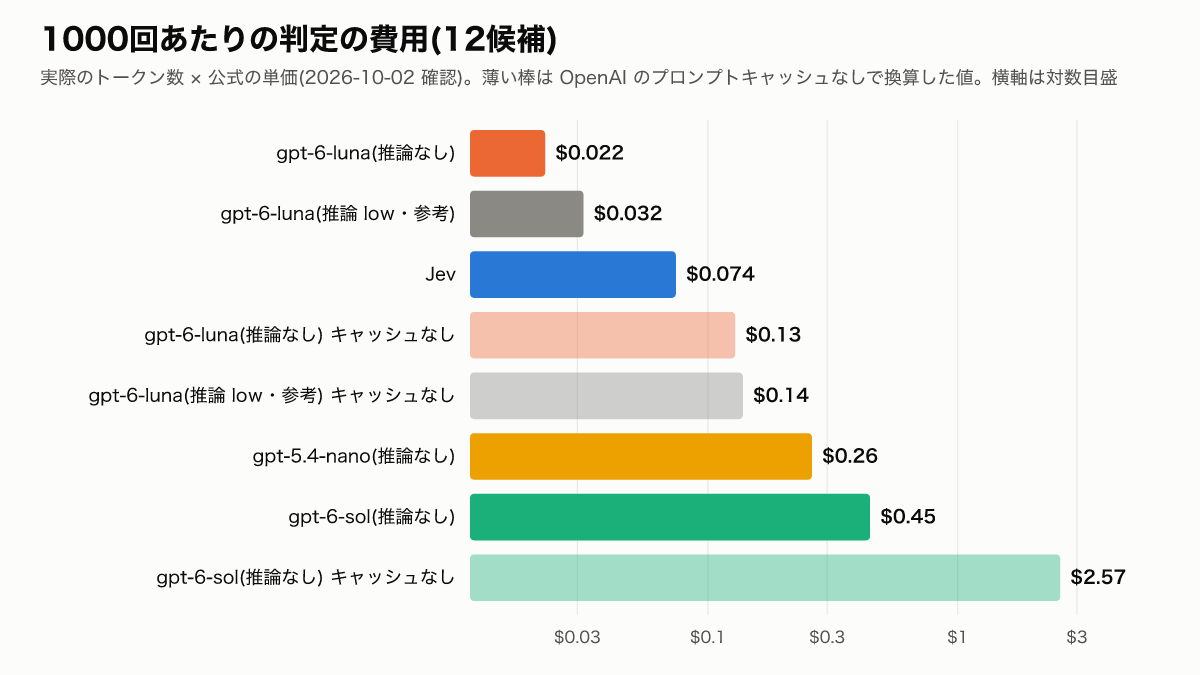
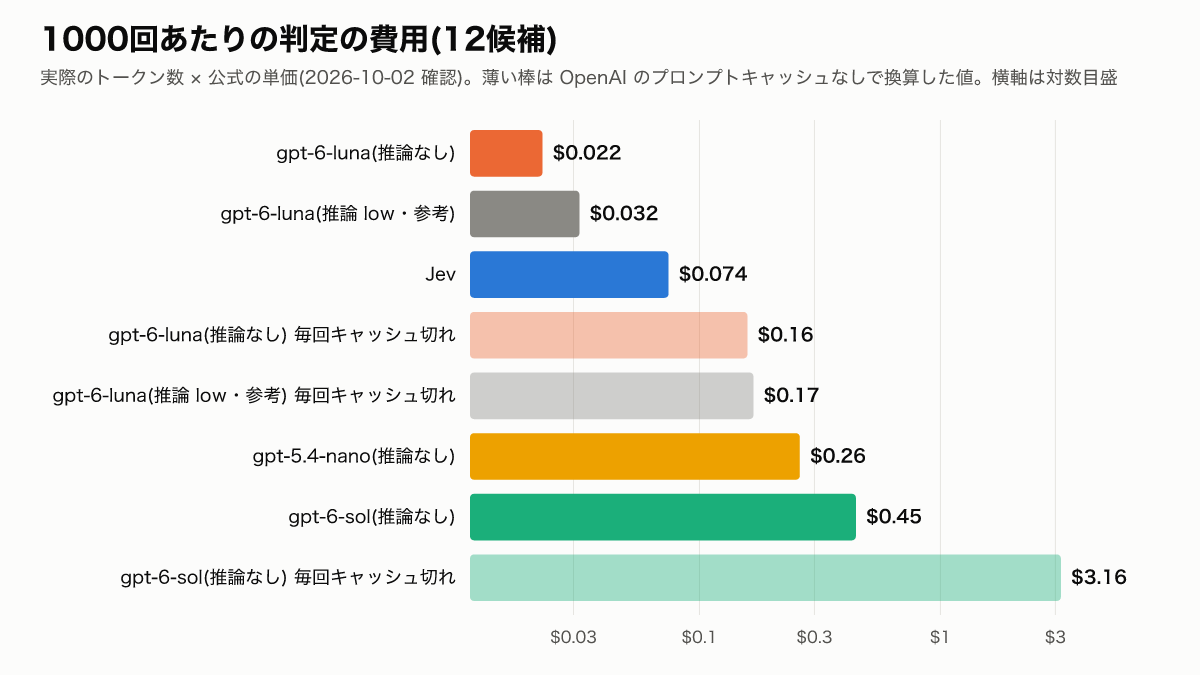
v2: price cache writes at 1.25x and add expiry-aware cost analysis

diff --git a/src/v2/report.ts b/src/v2/report.ts
@@ -91,7 +91,11 @@ const ms: M[] = run.configs.map((cfg) => {
       m.lat.push(r.latencyMs);
       m.cost.push(r.costUsd);
       const price = CLASSIFIERS.find((x) => x.key === cfg.classifier)?.price;
-      if (price) m.costNoCache.push(r.usage.input * price.input + r.usage.output * price.output);
+      // "every call misses the cache": the cacheable prefix is written (1.25x on GPT-5.6+), the rest billed as input
+      if (price) {
+        const prefix = r.usage.cachedInput || (r.usage as { cacheWrite?: number }).cacheWrite || 0;
+        m.costNoCache.push((r.usage.input - prefix) * price.input + prefix * (price.cacheWrite ?? price.input) + r.usage.output * price.output);
+      }
       if (r.usage.input) m.cachedShare.push(r.usage.cachedInput / r.usage.input);
       m.reasoningTok.push(r.usage.reasoning);
       if (r.confidence !== null && r.ok) m.conf.push({ c: r.confidence, ok, okL });
@@ -114,7 +118,7 @@ const G = { fine: '12候補', coarse: '6分類' } as const;
 
 // ---- main table ----
 const table = [
-  '| 構成 | 粒度 | 正解率 [95%CI] | 「これでも可」込み [95%CI] | 判定時間 p50 / p95 | 費用 / 1000回(実績) | 同(キャッシュなし換算) | 選択後のプロンプト(平均) | エラー |',
+  '| 構成 | 粒度 | 正解率 [95%CI] | 「これでも可」込み [95%CI] | 判定時間 p50 / p95 | 費用 / 1000回(実績) | 同(毎回キャッシュ切れ) | 選択後のプロンプト(平均) | エラー |',
   '|---|---|---:|---:|---:|---:|---:|---:|---:|',
   ...ms.map(
     (m) =>
@@ -199,7 +203,7 @@ writeFileSync(
           const actual = { classifier: m.classifier, label: m.label, usd: mean(m.cost) * 1000 };
           const noCache = mean(m.costNoCache) * 1000;
           return m.classifier !== 'jev' && noCache > actual.usd * 1.05
-            ? [actual, { classifier: m.classifier, label: `${m.label} キャッシュなし`, usd: noCache, faded: true }]
+            ? [actual, { classifier: m.classifier, label: `${m.label} 毎回キャッシュ切れ`, usd: noCache, faded: true }]
             : [actual];
         })
     )
@@ -272,7 +276,30 @@ ${agreeLines}
 - 候補の説明文・直前の会話・発話・指示文は同じものを渡した
 - Jev は \`state\`(会話)と choice の質問として、LLM は system に指示と候補一覧、user に会話の JSON として受け取る
 - LLM は Chat Completions、構造化出力(候補 id の enum)、\`reasoning_effort: none\`(参考の1構成だけ low)。gpt-6-sol の後継の gpt-6.1-sol は \`none\` に対応していないため使っていない
-- LLM の system(指示と候補一覧)は全件で同じなので、OpenAI 側の自動プロンプトキャッシュが効いた。入力のうちキャッシュから読まれた割合の平均: ${ms.filter((m) => m.classifier !== 'jev').map((m) => `${m.label} ${G[m.g]} ${pct(mean(m.cachedShare))}`).join('、')}。費用の表は実績(キャッシュ込み)とキャッシュなし換算の両方を載せた。Jev にはキャッシュの割引がない
+- LLM の system(指示と候補一覧)は全件で同じなので、OpenAI 側の自動プロンプトキャッシュが効いた。入力のうちキャッシュから読まれた割合の平均: ${ms.filter((m) => m.classifier !== 'jev').map((m) => `${m.label} ${G[m.g]} ${pct(mean(m.cachedShare))}`).join('、')}。Jev にはキャッシュの割引がない
+
+## キャッシュの有効期限を考えた費用
+
+OpenAI のプロンプトキャッシュは、GPT-5.6 以降では最後に使われてから30分有効で、書き込みは入力単価の1.25倍、読み出しは0.1倍(https://developers.openai.com/api/docs/guides/prompt-caching 、2026-10-02 確認)。
+費用はヒット率で決まるので、両端と、Jev と同じ費用になるヒット率を示す(12候補、1000回あたり)。
+
+| 構成 | 毎回キャッシュが効く | 毎回キャッシュ切れ(書き込み) | Jev と並ぶヒット率 |
+|---|---:|---:|---:|
+${ms
+  .filter((m) => m.classifier !== 'jev' && m.g === 'fine')
+  .map((m) => {
+    const jevCost = mean((ms.find((x) => x.classifier === 'jev' && x.g === 'fine') as M).cost) * 1000;
+    const warm = mean(m.cost) * 1000;
+    const cold = mean(m.costNoCache) * 1000;
+    const be = cold - warm > 1e-9 ? (cold - jevCost) / (cold - warm) : Number.NaN;
+    const beText = Number.isNaN(be) ? 'キャッシュされない' : be > 1 ? 'なし(常に Jev より高い)' : be < 0 ? '0%(常に Jev より安い)' : pct(be);
+    return `| ${m.label} | $${warm.toFixed(3)} | $${cold.toFixed(3)} | ${beText} |`;
+  })
+  .join('\n')}
+
+- 今回の実行では、ウォームアップで書き込みが済み、採点した100件はすべてキャッシュに当たった(呼び出し間隔は約15秒)
+- 30分の有効期限は使われるたびに延びるので、判定の呼び出しが30分に1回以上ある限り、キャッシュは切れない。ヒット率が下がるのは、呼び出しがまばらな場合や、負荷分散で別のマシンに振られた場合、候補の説明を変えた直後
+- gpt-5.4-nano は、同じプロンプトを続けて送ってもキャッシュに乗らなかった(理由は未確認)
 `;
 writeFileSync('results/v2/summary.md', md);
 console.log(table);

diff --git a/src/v2/classifiers.ts b/src/v2/classifiers.ts
@@ -20,7 +20,7 @@ export interface ClassifyResult {
   probs: Record<string, number> | null;
   model: string | null;
   latencyMs: number;
-  usage: { input: number; cachedInput: number; output: number; reasoning: number };
+  usage: { input: number; cachedInput: number; cacheWrite: number; output: number; reasoning: number };
   costUsd: number;
   error?: string;
 }
@@ -31,16 +31,16 @@ export interface ClassifierSpec {
   provider: 'typesafe' | 'openai';
   model: string;
   reasoningEffort?: 'none' | 'low';
-  /** $ per token. Sources and dates: results/v2/PRICING.md */
-  price: { input: number; cachedInput: number; output: number };
+  /** $ per token. Sources and dates: results/v2/PRICING.md. cacheWrite: GPT-5.6+ bills cache writes at 1.25x input. */
+  price: { input: number; cachedInput: number; cacheWrite?: number; output: number };
 }
 
 export const CLASSIFIERS: ClassifierSpec[] = [
   { key: 'jev', label: 'Jev', provider: 'typesafe', model: JEV_MODEL, price: { input: 0.042 / 1e6, cachedInput: 0.042 / 1e6, output: 0 } },
-  { key: 'luna', label: 'gpt-6-luna(推論なし)', provider: 'openai', model: 'gpt-6-luna', reasoningEffort: 'none', price: { input: 0.1 / 1e6, cachedInput: 0.01 / 1e6, output: 0.5 / 1e6 } },
-  { key: 'sol', label: 'gpt-6-sol(推論なし)', provider: 'openai', model: 'gpt-6-sol', reasoningEffort: 'none', price: { input: 2 / 1e6, cachedInput: 0.2 / 1e6, output: 10 / 1e6 } },
+  { key: 'luna', label: 'gpt-6-luna(推論なし)', provider: 'openai', model: 'gpt-6-luna', reasoningEffort: 'none', price: { input: 0.1 / 1e6, cachedInput: 0.01 / 1e6, cacheWrite: 0.125 / 1e6, output: 0.5 / 1e6 } },
+  { key: 'sol', label: 'gpt-6-sol(推論なし)', provider: 'openai', model: 'gpt-6-sol', reasoningEffort: 'none', price: { input: 2 / 1e6, cachedInput: 0.2 / 1e6, cacheWrite: 2.5 / 1e6, output: 10 / 1e6 } },
   { key: 'nano', label: 'gpt-5.4-nano(推論なし)', provider: 'openai', model: 'gpt-5.4-nano', reasoningEffort: 'none', price: { input: 0.2 / 1e6, cachedInput: 0.02 / 1e6, output: 1.25 / 1e6 } },
-  { key: 'luna_low', label: 'gpt-6-luna(推論 low・参考)', provider: 'openai', model: 'gpt-6-luna', reasoningEffort: 'low', price: { input: 0.1 / 1e6, cachedInput: 0.01 / 1e6, output: 0.5 / 1e6 } },
+  { key: 'luna_low', label: 'gpt-6-luna(推論 low・参考)', provider: 'openai', model: 'gpt-6-luna', reasoningEffort: 'low', price: { input: 0.1 / 1e6, cachedInput: 0.01 / 1e6, cacheWrite: 0.125 / 1e6, output: 0.5 / 1e6 } },
 ];
 
 const JEV_INSTRUCTIONS =
@@ -57,7 +57,7 @@ const fail = (t0: number, e: unknown): ClassifyResult => ({
   probs: null,
   model: null,
   latencyMs: performance.now() - t0,
-  usage: { input: 0, cachedInput: 0, output: 0, reasoning: 0 },
+  usage: { input: 0, cachedInput: 0, cacheWrite: 0, output: 0, reasoning: 0 },
   costUsd: 0,
   error: (e instanceof Error ? `${e.name}: ${e.message}` : String(e)).slice(0, 300),
 });
@@ -87,7 +87,7 @@ export async function classifyJev(
       probs: { ...a.probabilities },
       model: res.model,
       latencyMs,
-      usage: { input, cachedInput: 0, output: res.usage.output_tokens, reasoning: 0 },
+      usage: { input, cachedInput: 0, cacheWrite: 0, output: res.usage.output_tokens, reasoning: 0 },
       costUsd: input * spec.price.input,
     };
   } catch (e) {
@@ -125,6 +125,8 @@ export async function classifyOpenAI(
     const chosen = (JSON.parse(msg.content ?? '{}') as { prompt_id?: string }).prompt_id ?? null;
     const u = res.usage;
     const cached = u?.prompt_tokens_details?.cached_tokens ?? 0;
+    // GPT-5.6+ reports cache writes here (not yet in the SDK types)
+    const written = (u?.prompt_tokens_details as { cache_write_tokens?: number } | undefined)?.cache_write_tokens ?? 0;
     const input = u?.prompt_tokens ?? 0;
     const output = u?.completion_tokens ?? 0;
     return {
@@ -134,8 +136,12 @@ export async function classifyOpenAI(
       probs: null,
       model: res.model,
       latencyMs,
-      usage: { input, cachedInput: cached, output, reasoning: u?.completion_tokens_details?.reasoning_tokens ?? 0 },
-      costUsd: (input - cached) * spec.price.input + cached * spec.price.cachedInput + output * spec.price.output,
+      usage: { input, cachedInput: cached, cacheWrite: written, output, reasoning: u?.completion_tokens_details?.reasoning_tokens ?? 0 },
+      costUsd:
+        (input - cached - written) * spec.price.input +
+        cached * spec.price.cachedInput +
+        written * (spec.price.cacheWrite ?? spec.price.input) +
+        output * spec.price.output,
     };
   } catch (e) {
     return fail(t0, e);

diff --git a/results/v2/summary.md b/results/v2/summary.md
@@ -16,8 +16,9 @@
    言い換えは「これでも可」としているので、別解込みでは Jev 99%・luna 98%・sol 100% とほぼ並ぶ。12候補での Jev の優位は、この境目の決め方に大きく左右される。
 4. **6分類にすると LLM が追いつく。** sol 96%・luna 95%・Jev 92%・nano 89%。どの差も有意ではない(p≥0.34)。
 5. **推論を足しても正解率はほぼ変わらない。** gpt-6-luna は推論なし 85% → 推論 low 86%。判定時間は p50 が +0.17秒、p95 が 1.03秒 → 1.87秒に延びた。
-6. **費用は「Jev が一番安い」とは言えない。** 1000回あたり、Jev $0.074 に対し、gpt-6-luna は実績 $0.022(入力の97%がプロンプトキャッシュから読まれた)、キャッシュなし換算で $0.13。
-   gpt-5.4-nano は $0.26(キャッシュが効かなかった)、gpt-6-sol は実績 $0.45、キャッシュなし換算で $2.57。
+6. **費用は「Jev が一番安い」とは言えない。** 1000回あたり Jev は $0.074。gpt-6-luna はプロンプトキャッシュが効けば $0.022、毎回キャッシュ切れなら $0.158 で、**ヒット率62%以上なら Jev より安い**。
+   キャッシュは最後に使われてから30分有効なので、判定の呼び出しが30分に1回以上ある実際のサービスなら、ヒット率はほぼ100%に近いと考えられる(今回の実行では100%)。
+   一方、gpt-6-sol はキャッシュが効いても $0.45 で常に Jev より高く、gpt-5.4-nano はキャッシュに乗らず $0.26 だった。
 7. **Jev の確信度は、実際の正解率より低めに出る(控えめ)。** 確信度0.9以上の67件は正解率96%(平均確信度0.98)。0.7〜0.9の17件は88%(同0.78)、0.5〜0.7の14件は71%(同0.58)。
    確信度0.9以上だけを信用する運用なら、正解率96%で全体の2/3をさばける。
 8. **選んだ後に載せるプロンプトは、12候補で平均約5,300トークン、6分類で約8,000トークン。** 全部載せ(約22,700トークン)の約1/4と約1/3。
@@ -35,17 +36,17 @@
 
 ## 構成別の比較
 
-| 構成 | 粒度 | 正解率 [95%CI] | 「これでも可」込み [95%CI] | 判定時間 p50 / p95 | 費用 / 1000回(実績) | 同(キャッシュなし換算) | 選択後のプロンプト(平均) | エラー |
+| 構成 | 粒度 | 正解率 [95%CI] | 「これでも可」込み [95%CI] | 判定時間 p50 / p95 | 費用 / 1000回(実績) | 同(毎回キャッシュ切れ) | 選択後のプロンプト(平均) | エラー |
 |---|---|---:|---:|---:|---:|---:|---:|---:|
 | Jev | 12候補 | 91% [84%–95%] | 99% [95%–100%] | 227ms / 336ms | $0.074 | $0.074 | 5,291 tok | 0 |
 | Jev | 6分類 | 92% [85%–96%] | 97% [92%–99%] | 184ms / 314ms | $0.073 | $0.073 | 7,993 tok | 0 |
 | gpt-5.4-nano(推論なし) | 12候補 | 80% [71%–87%] | 91% [84%–95%] | 651ms / 869ms | $0.261 | $0.261 | 5,407 tok | 0 |
 | gpt-5.4-nano(推論なし) | 6分類 | 89% [81%–94%] | 93% [86%–97%] | 647ms / 872ms | $0.253 | $0.253 | 8,241 tok | 0 |
-| gpt-6-luna(推論なし) | 12候補 | 85% [77%–91%] | 98% [93%–99%] | 796ms / 1.03秒 | $0.022 | $0.129 | 5,338 tok | 0 |
-| gpt-6-luna(推論なし) | 6分類 | 95% [89%–98%] | 98% [93%–99%] | 838ms / 1.19秒 | $0.021 | $0.125 | 7,949 tok | 0 |
-| gpt-6-sol(推論なし) | 12候補 | 85% [77%–91%] | 100% [96%–100%] | 1.05秒 / 1.46秒 | $0.446 | $2.572 | 5,310 tok | 0 |
-| gpt-6-sol(推論なし) | 6分類 | 96% [90%–98%] | 98% [93%–99%] | 1.05秒 / 1.41秒 | $0.428 | $2.494 | 7,946 tok | 0 |
-| gpt-6-luna(推論 low・参考) | 12候補 | 86% [78%–91%] | 99% [95%–100%] | 968ms / 1.87秒 | $0.032 | $0.138 | 5,319 tok | 0 |
+| gpt-6-luna(推論なし) | 12候補 | 85% [77%–91%] | 98% [93%–99%] | 796ms / 1.03秒 | $0.022 | $0.158 | 5,338 tok | 0 |
+| gpt-6-luna(推論なし) | 6分類 | 95% [89%–98%] | 98% [93%–99%] | 838ms / 1.19秒 | $0.021 | $0.153 | 7,949 tok | 0 |
+| gpt-6-sol(推論なし) | 12候補 | 85% [77%–91%] | 100% [96%–100%] | 1.05秒 / 1.46秒 | $0.446 | $3.162 | 5,310 tok | 0 |
+| gpt-6-sol(推論なし) | 6分類 | 96% [90%–98%] | 98% [93%–99%] | 1.05秒 / 1.41秒 | $0.428 | $3.069 | 7,946 tok | 0 |
+| gpt-6-luna(推論 low・参考) | 12候補 | 86% [78%–91%] | 99% [95%–100%] | 968ms / 1.87秒 | $0.032 | $0.168 | 5,319 tok | 0 |
 
 gpt-6-luna(推論 low)の推論トークンは1回あたり平均 17。
 
@@ -139,4 +140,20 @@ b = Jev だけ正解、c = 相手だけ正解。p が小さいほど差が偶然
 - 候補の説明文・直前の会話・発話・指示文は同じものを渡した
 - Jev は `state`(会話)と choice の質問として、LLM は system に指示と候補一覧、user に会話の JSON として受け取る
 - LLM は Chat Completions、構造化出力(候補 id の enum)、`reasoning_effort: none`(参考の1構成だけ low)。gpt-6-sol の後継の gpt-6.1-sol は `none` に対応していないため使っていない
-- LLM の system(指示と候補一覧)は全件で同じなので、OpenAI 側の自動プロンプトキャッシュが効いた。入力のうちキャッシュから読まれた割合の平均: gpt-5.4-nano(推論なし) 12候補 0%、gpt-5.4-nano(推論なし) 6分類 0%、gpt-6-luna(推論なし) 12候補 97%、gpt-6-luna(推論なし) 6分類 97%、gpt-6-sol(推論なし) 12候補 97%、gpt-6-sol(推論なし) 6分類 97%、gpt-6-luna(推論 low・参考) 12候補 97%。費用の表は実績(キャッシュ込み)とキャッシュなし換算の両方を載せた。Jev にはキャッシュの割引がない
+- LLM の system(指示と候補一覧)は全件で同じなので、OpenAI 側の自動プロンプトキャッシュが効いた。入力のうちキャッシュから読まれた割合の平均: gpt-5.4-nano(推論なし) 12候補 0%、gpt-5.4-nano(推論なし) 6分類 0%、gpt-6-luna(推論なし) 12候補 97%、gpt-6-luna(推論なし) 6分類 97%、gpt-6-sol(推論なし) 12候補 97%、gpt-6-sol(推論なし) 6分類 97%、gpt-6-luna(推論 low・参考) 12候補 97%。Jev にはキャッシュの割引がない
+
+## キャッシュの有効期限を考えた費用
+
+OpenAI のプロンプトキャッシュは、GPT-5.6 以降では最後に使われてから30分有効で、書き込みは入力単価の1.25倍、読み出しは0.1倍(https://developers.openai.com/api/docs/guides/prompt-caching 、2026-10-02 確認)。
+費用はヒット率で決まるので、両端と、Jev と同じ費用になるヒット率を示す(12候補、1000回あたり)。
+
+| 構成 | 毎回キャッシュが効く | 毎回キャッシュ切れ(書き込み) | Jev と並ぶヒット率 |
+|---|---:|---:|---:|
+| gpt-5.4-nano(推論なし) | $0.261 | $0.261 | キャッシュされない |
+| gpt-6-luna(推論なし) | $0.022 | $0.158 | 62% |
+| gpt-6-sol(推論なし) | $0.446 | $3.162 | なし(常に Jev より高い) |
+| gpt-6-luna(推論 low・参考) | $0.032 | $0.168 | 69% |
+
+- 今回の実行では、ウォームアップで書き込みが済み、採点した100件はすべてキャッシュに当たった(呼び出し間隔は約15秒)
+- 30分の有効期限は使われるたびに延びるので、判定の呼び出しが30分に1回以上ある限り、キャッシュは切れない。ヒット率が下がるのは、呼び出しがまばらな場合や、負荷分散で別のマシンに振られた場合、候補の説明を変えた直後
+- gpt-5.4-nano は、同じプロンプトを続けて送ってもキャッシュに乗らなかった(理由は未確認)

diff --git a/results/v2/findings.md b/results/v2/findings.md
@@ -7,8 +7,9 @@
    言い換えは「これでも可」としているので、別解込みでは Jev 99%・luna 98%・sol 100% とほぼ並ぶ。12候補での Jev の優位は、この境目の決め方に大きく左右される。
 4. **6分類にすると LLM が追いつく。** sol 96%・luna 95%・Jev 92%・nano 89%。どの差も有意ではない(p≥0.34)。
 5. **推論を足しても正解率はほぼ変わらない。** gpt-6-luna は推論なし 85% → 推論 low 86%。判定時間は p50 が +0.17秒、p95 が 1.03秒 → 1.87秒に延びた。
-6. **費用は「Jev が一番安い」とは言えない。** 1000回あたり、Jev $0.074 に対し、gpt-6-luna は実績 $0.022(入力の97%がプロンプトキャッシュから読まれた)、キャッシュなし換算で $0.13。
-   gpt-5.4-nano は $0.26(キャッシュが効かなかった)、gpt-6-sol は実績 $0.45、キャッシュなし換算で $2.57。
+6. **費用は「Jev が一番安い」とは言えない。** 1000回あたり Jev は $0.074。gpt-6-luna はプロンプトキャッシュが効けば $0.022、毎回キャッシュ切れなら $0.158 で、**ヒット率62%以上なら Jev より安い**。
+   キャッシュは最後に使われてから30分有効なので、判定の呼び出しが30分に1回以上ある実際のサービスなら、ヒット率はほぼ100%に近いと考えられる(今回の実行では100%)。
+   一方、gpt-6-sol はキャッシュが効いても $0.45 で常に Jev より高く、gpt-5.4-nano はキャッシュに乗らず $0.26 だった。
 7. **Jev の確信度は、実際の正解率より低めに出る(控えめ)。** 確信度0.9以上の67件は正解率96%(平均確信度0.98)。0.7〜0.9の17件は88%(同0.78)、0.5〜0.7の14件は71%(同0.58)。
    確信度0.9以上だけを信用する運用なら、正解率96%で全体の2/3をさばける。
 8. **選んだ後に載せるプロンプトは、12候補で平均約5,300トークン、6分類で約8,000トークン。** 全部載せ(約22,700トークン)の約1/4と約1/3。
